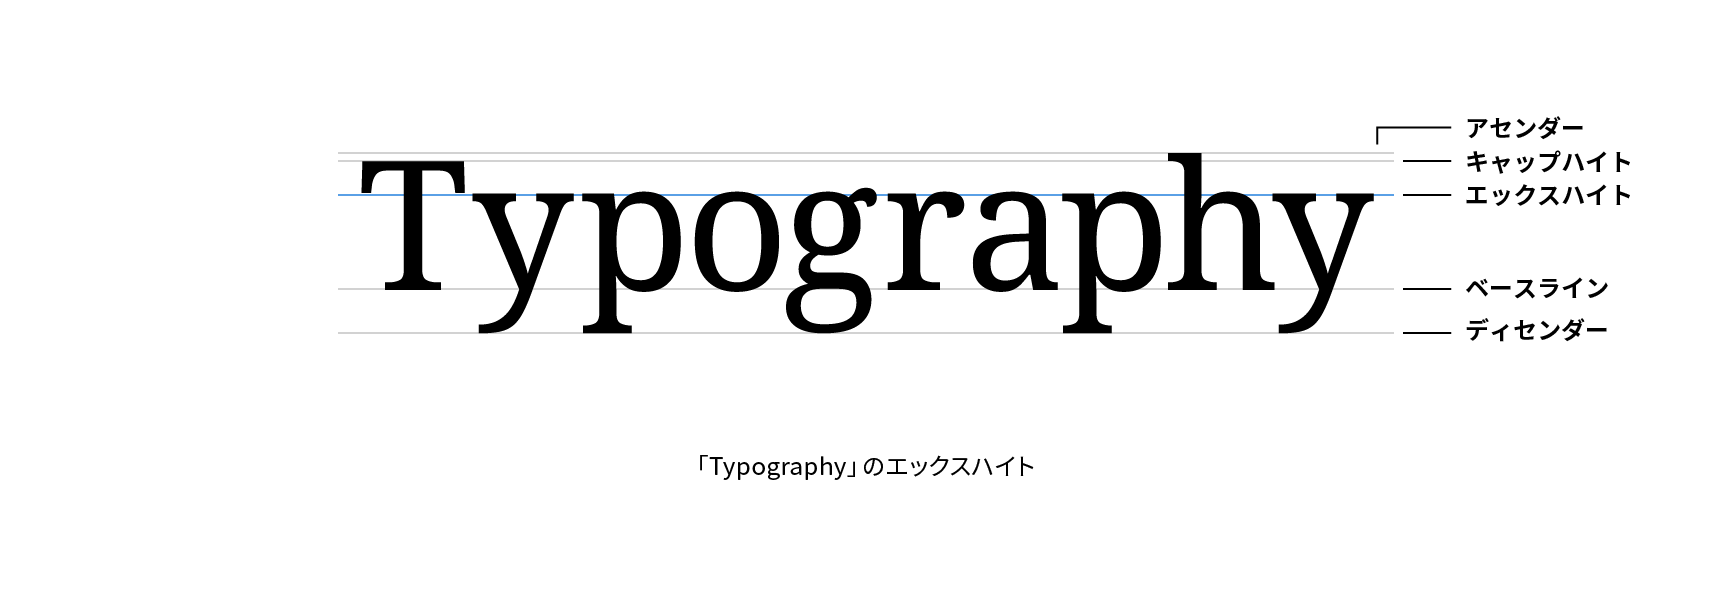
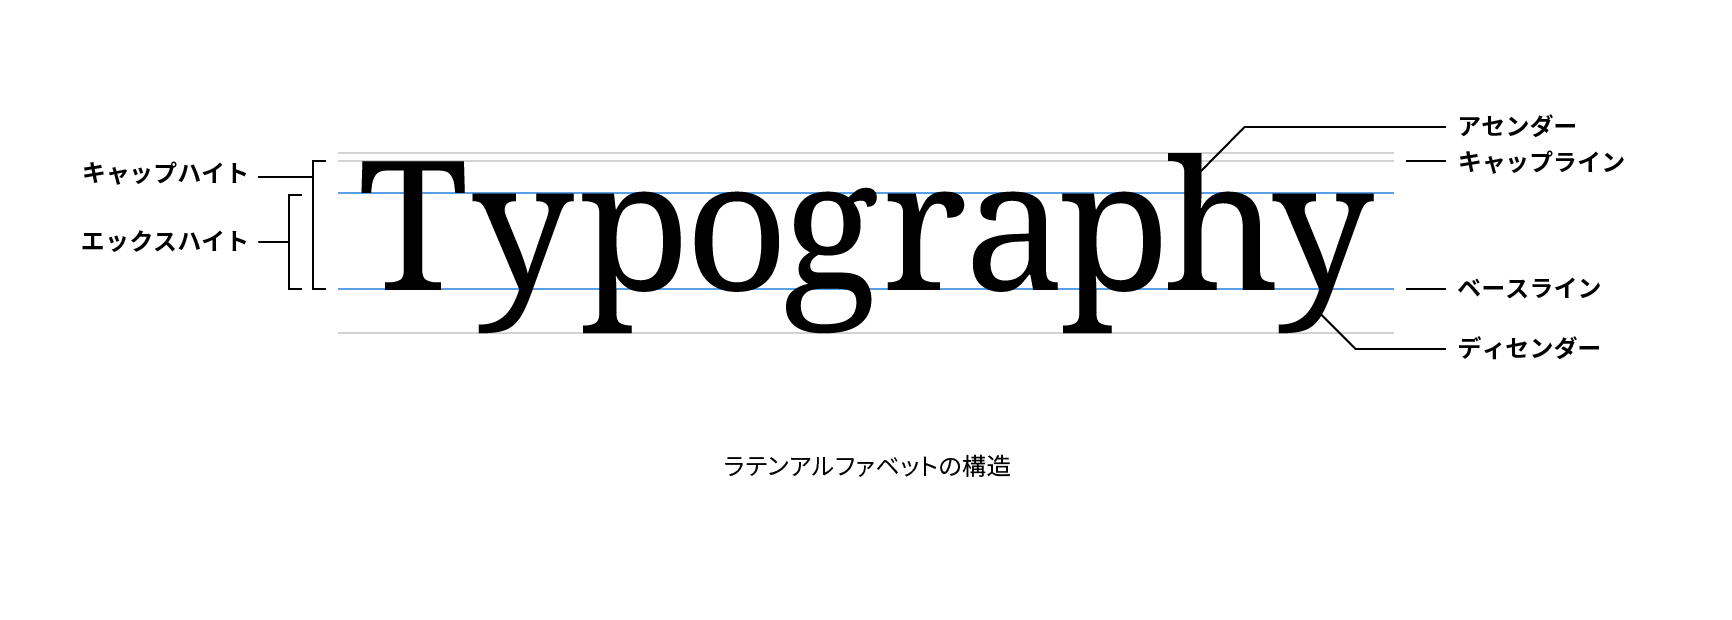
エックスハイト図版修正

diff --git a/terms/x-height.md b/terms/x-height.md
@@ -2,7 +2,7 @@
 
 エックスハイト（x-height）は、xなどアセンダーを持たないアルファベットの小文字の、ベースラインから文字の上端までの高さをいいます。
 
-![「Typography」のエックスハイト](../images/x-height.png)
+![ラテンアルファベットの構造](../images/x-height.png)
 
 ## 実践
 
